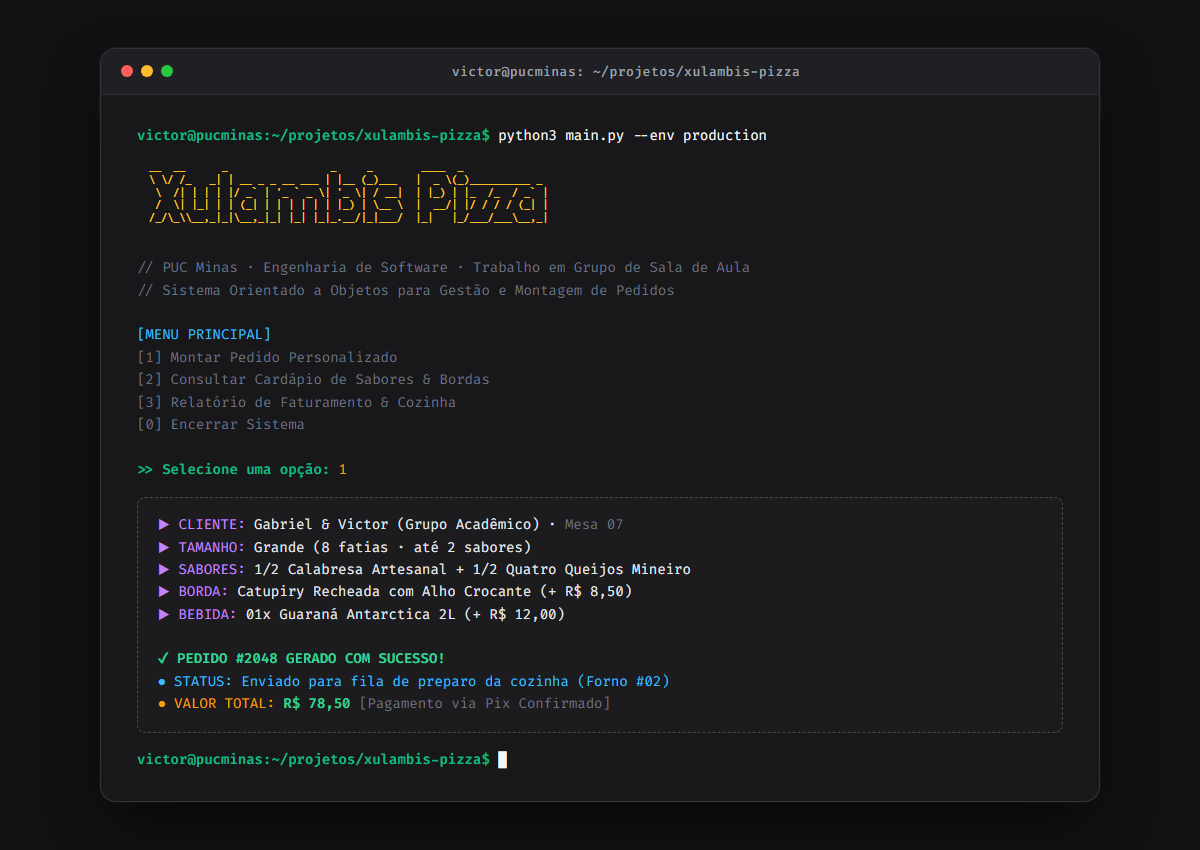
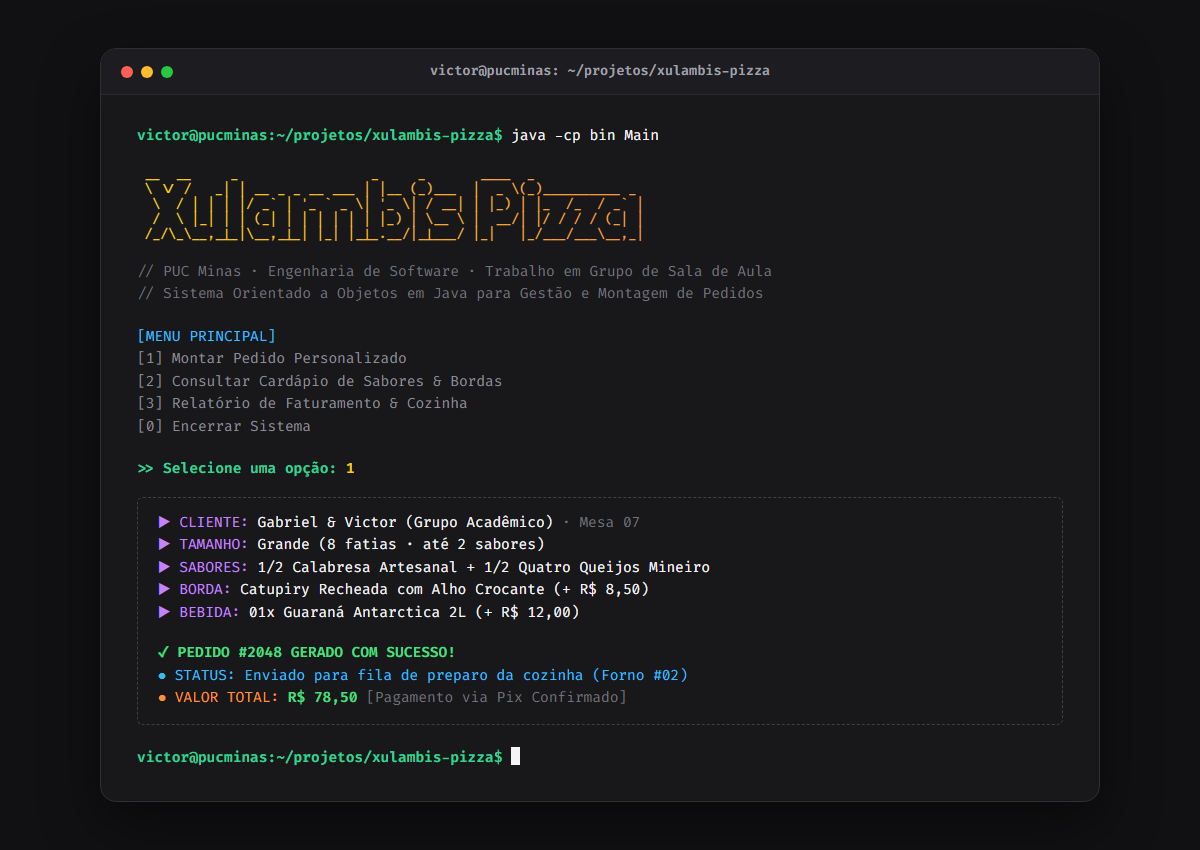
fix: refaz mockup do terminal do Xulambis com comando Java
A imagem do card mostrava "python3 main.py", contradizendo o projeto,
que é em Java. Recriada na mesma composição (1200x850) com
"java -cp bin Main". O HTML de origem fica em docs/mockups/ para
permitir regerar a imagem.

diff --git a/docs/mockups/xulambis-terminal.html b/docs/mockups/xulambis-terminal.html
@@ -1,0 +1,70 @@
+<!doctype html>
+<html>
+<head>
+<meta charset="utf-8">
+<link href="https://fonts.googleapis.com/css2?family=Fira+Code:wght@400;600&display=block" rel="stylesheet">
+<style>
+  * { box-sizing: border-box; margin: 0; }
+  html, body { width: 1200px; height: 850px; background: #111113; }
+  body { display: flex; align-items: center; justify-content: center; font-family: 'Fira Code', Consolas, monospace; font-size: 14.5px; line-height: 22.5px; color: #d4d4d8; }
+  .win { width: 1000px; height: 754px; background: #18181b; border: 1px solid #2e2e33; border-radius: 16px; overflow: hidden; box-shadow: 0 24px 60px rgba(0,0,0,.45); }
+  .bar { height: 46px; display: flex; align-items: center; padding: 0 20px; background: #1d1d21; border-bottom: 1px solid #2a2a2f; position: relative; }
+  .dot { width: 12px; height: 12px; border-radius: 50%; margin-right: 8px; }
+  .title { position: absolute; left: 0; right: 0; text-align: center; font-size: 13.5px; color: #a1a1aa; font-weight: 600; }
+  .body { padding: 30px 36px; }
+  .p { color: #34d399; font-weight: 600; }
+  .cmd { color: #f4f4f5; }
+  pre.logo { font-family: inherit; font-size: 13px; line-height: 15px; margin: 18px 0 20px; font-weight: 600;
+    background: linear-gradient(90deg, #facc15, #fb923c 55%, #f97316); -webkit-background-clip: text; color: transparent; }
+  .c { color: #71717a; }
+  .menu { color: #38bdf8; margin-top: 20px; }
+  .opt { color: #8b8b94; }
+  .sel { color: #34d399; font-weight: 600; margin-top: 20px; }
+  .n { color: #facc15; }
+  .box { border: 1px dashed #3f3f46; border-radius: 6px; padding: 14px 20px; margin: 16px 0 22px; }
+  .k { color: #c084fc; }
+  .v { color: #f4f4f5; }
+  .m { color: #71717a; }
+  .ok { color: #4ade80; font-weight: 600; margin-top: 18px; }
+  .st { color: #38bdf8; }
+  .tot { color: #fb923c; }
+  .val { color: #4ade80; font-weight: 600; }
+  .cur { display: inline-block; width: 9px; height: 18px; background: #f4f4f5; vertical-align: -3px; }
+</style>
+</head>
+<body>
+<div class="win">
+  <div class="bar">
+    <span class="dot" style="background:#ff5f57"></span><span class="dot" style="background:#febc2e"></span><span class="dot" style="background:#28c840"></span>
+    <div class="title">victor@pucminas: ~/projetos/xulambis-pizza</div>
+  </div>
+  <div class="body">
+    <div><span class="p">victor@pucminas:~/projetos/xulambis-pizza$</span> <span class="cmd">java -cp bin Main</span></div>
+<pre class="logo"> __  __     _                 _     _       ____  _
+ \ \/ /   _| | __ _ _ __ ___ | |__ (_)___  |  _ \(_)__________ _
+  \  / | | | |/ _` | '_ ` _ \| '_ \| / __| | |_) | |_  /_  / _` |
+  /  \ |_| | | (_| | | | | | | |_) | \__ \ |  __/| |/ / / / (_| |
+ /_/\_\__,_|_|\__,_|_| |_| |_|_.__/|_|___/ |_|   |_/___/___\__,_|</pre>
+    <div class="c">// PUC Minas · Engenharia de Software · Trabalho em Grupo de Sala de Aula</div>
+    <div class="c">// Sistema Orientado a Objetos em Java para Gestão e Montagem de Pedidos</div>
+    <div class="menu">[MENU PRINCIPAL]</div>
+    <div class="opt">[1] Montar Pedido Personalizado</div>
+    <div class="opt">[2] Consultar Cardápio de Sabores &amp; Bordas</div>
+    <div class="opt">[3] Relatório de Faturamento &amp; Cozinha</div>
+    <div class="opt">[0] Encerrar Sistema</div>
+    <div class="sel">&gt;&gt; Selecione uma opção: <span class="n">1</span></div>
+    <div class="box">
+      <div><span class="k">▶ CLIENTE:</span> <span class="v">Gabriel &amp; Victor (Grupo Acadêmico)</span> <span class="m">· Mesa 07</span></div>
+      <div><span class="k">▶ TAMANHO:</span> <span class="v">Grande (8 fatias · até 2 sabores)</span></div>
+      <div><span class="k">▶ SABORES:</span> <span class="v">1/2 Calabresa Artesanal + 1/2 Quatro Queijos Mineiro</span></div>
+      <div><span class="k">▶ BORDA:</span> <span class="v">Catupiry Recheada com Alho Crocante (+ R$ 8,50)</span></div>
+      <div><span class="k">▶ BEBIDA:</span> <span class="v">01x Guaraná Antarctica 2L (+ R$ 12,00)</span></div>
+      <div class="ok">✓ PEDIDO #2048 GERADO COM SUCESSO!</div>
+      <div class="st">● STATUS: Enviado para fila de preparo da cozinha (Forno #02)</div>
+      <div class="tot">● VALOR TOTAL: <span class="val">R$ 78,50</span> <span class="m">[Pagamento via Pix Confirmado]</span></div>
+    </div>
+    <div><span class="p">victor@pucminas:~/projetos/xulambis-pizza$</span> <span class="cur"></span></div>
+  </div>
+</div>
+</body>
+</html>

diff --git a/docs/08-bugs-e-pendencias.md b/docs/08-bugs-e-pendencias.md
@@ -29,10 +29,10 @@ Levantamento de 2026-10-20, sobre o commit `ae0f854`. Ordenado por impacto.
 >
 > Confirmado: o Xulambis foi feito em **Java**. A tag em `portfolioData.js` era "Python / POO" e virou "Java / POO", batendo com a descrição traduzida.
 
-> [!CAUTION]
-> **print do Xulambis mostra Python**
+> [!TIP]
+> **~~print do Xulambis mostra Python~~ — refeito em 2026-10-20**
 >
-> `public/projects/xulambis-terminal.png` é um mockup de terminal com o comando `python3 main.py --env production`. Contradiz o card ("desenvolvido em Java"). **Causa raiz:** a imagem foi gerada quando o projeto ainda era descrito como Python. Pendente refazer com um comando Java (ex.: `java -cp bin Main`).
+> `public/projects/xulambis-terminal.png` era um mockup com `python3 main.py --env production`, contradizendo o card. **Causa raiz:** a imagem foi gerada quando o projeto ainda era descrito como Python. Não existe print real; o mockup foi recriado (mesma composição, 1200×850) com `java -cp bin Main` e o comentário "Sistema Orientado a Objetos em Java". Fonte em `docs/mockups/xulambis-terminal.html` — ver [09 - Como Rodar e Manter](09-como-rodar-e-manter.md).
 
 > [!CAUTION]
 > **meta description fixa em pt-BR**
@@ -76,7 +76,7 @@ Levantamento de 2026-10-20, sobre o commit `ae0f854`. Ordenado por impacto.
 1. [x] Formulário de contato funcional (2026-10-20, validado com envio real)
 2. [x] Favicon próprio (2026-10-20)
 3. [x] Confirmar linguagem do Xulambis e corrigir a tag (2026-10-20: Java)
-3a. [ ] Refazer o print do terminal do Xulambis com comando Java
+3a. [x] Refazer o print do terminal do Xulambis com comando Java (2026-10-20)
 4. [ ] Traduzir tags/chips/alt (mover para JSON)
 5. [ ] Meta description por idioma
 6. [ ] Corrigir `companyUrl` e `githubUrl`

diff --git a/docs/09-como-rodar-e-manter.md b/docs/09-como-rodar-e-manter.md
@@ -79,6 +79,21 @@ npm run preview    # serve o dist/ localmente
 > node -e "const a=require('./src/i18n/locales/pt-BR/translation.json'),b=require('./src/i18n/locales/en/translation.json');const k=(o,p='')=>Object.entries(o).flatMap(([x,v])=>typeof v==='object'&&!Array.isArray(v)?k(v,p+x+'.'):[p+x]);const A=k(a),B=k(b);console.log(A.filter(x=>!B.includes(x)),B.filter(x=>!A.includes(x)))"
 > ```
 
+## Regerar o mockup do Xulambis
+
+A imagem `public/projects/xulambis-terminal.png` sai de `docs/mockups/xulambis-terminal.html` (1200×850, Fira Code do Google Fonts, logo ASCII do `figlet` fonte Standard). Editar o HTML e capturar com o Edge headless:
+
+```bash
+"/c/Program Files (x86)/Microsoft/Edge/Application/msedge.exe" --headless --disable-gpu --hide-scrollbars \
+  --force-device-scale-factor=1 --window-size=1200,850 --virtual-time-budget=5000 \
+  --screenshot="C:\caminho\xulambis-terminal.png" "file:///C:/caminho/docs/mockups/xulambis-terminal.html"
+```
+
+> [!TIP]
+> **atalho que vale lembrar**
+>
+> `--virtual-time-budget=5000` dá tempo da Fira Code carregar; sem ele a captura sai em Consolas.
+
 ## Convenção de commits
 
 - Mensagens em português, prefixo convencional: `feat:`, `fix:`, `docs:`, `refactor:`, `chore:`, `style:`.

diff --git a/docs/06-assets-e-midia.md b/docs/06-assets-e-midia.md
@@ -14,7 +14,7 @@ Tudo em `public/`, servido na raiz (`/arquivo`). Levantamento feito em 2026-10-2
 | `victor-meio.jpeg` | Cargo Comunicação & Web |
 | `victor-inicio.jpeg` | Cargo Assistente de Comunicação |
 | `projects/grupogvs-hero.png` | Card do projeto GVS |
-| `projects/xulambis-terminal.png` | Card do projeto Xulambis |
+| `projects/xulambis-terminal.png` | Card do projeto Xulambis — **mockup**, não print real; recriado em 2026-10-20 a partir de `docs/mockups/xulambis-terminal.html` |
 | `fonts/HyperlegibleSans-*.woff2`, `fonts/SmileMoon.otf` | `index.css` |
 | `favicon.svg` | Favicon — monograma "V" musgo/bege (desde 2026-10-20) |
 
